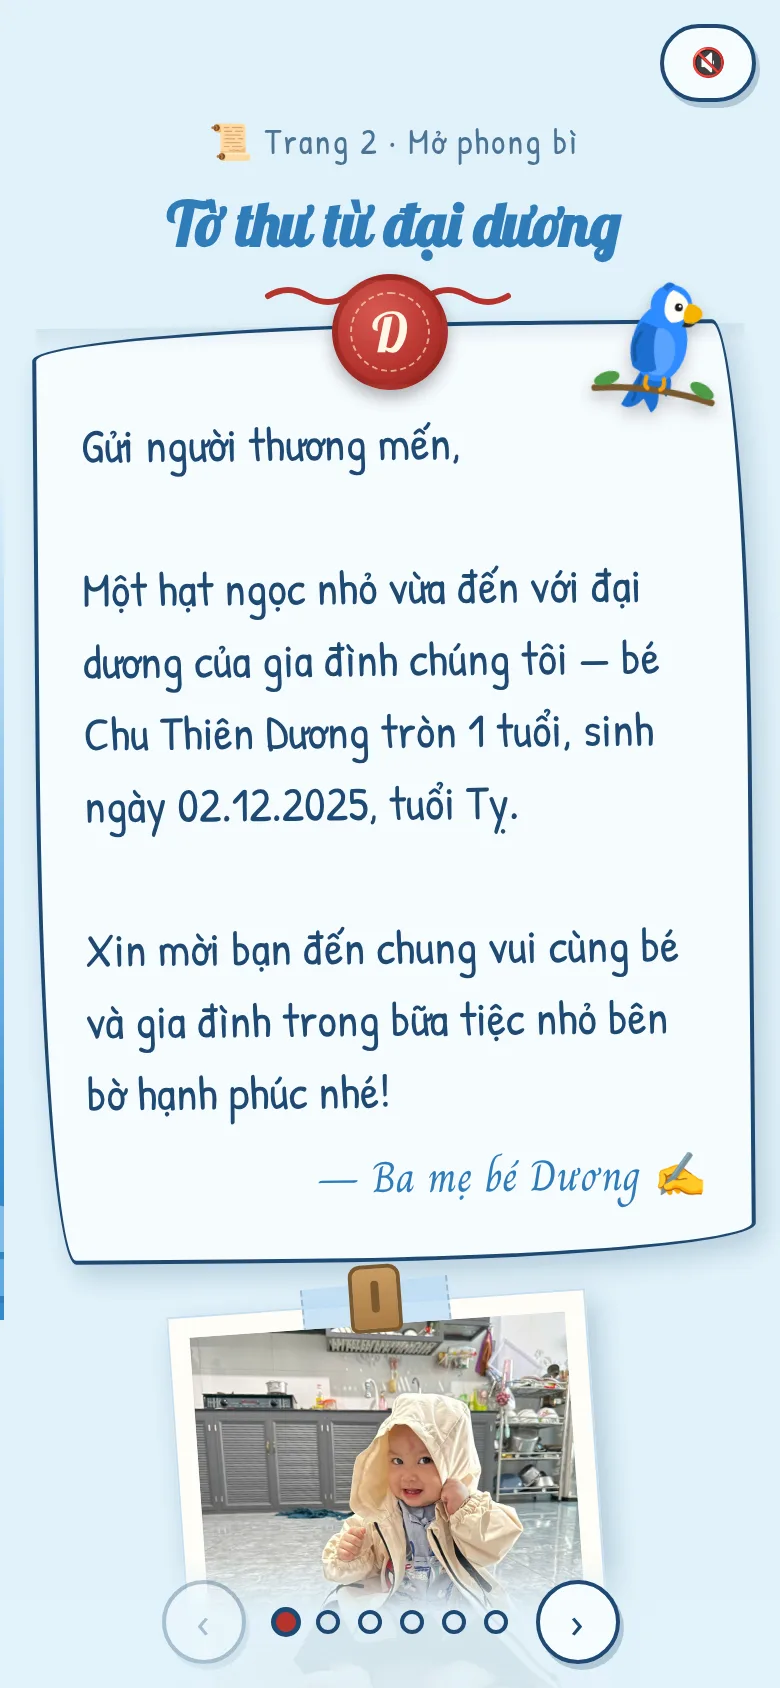
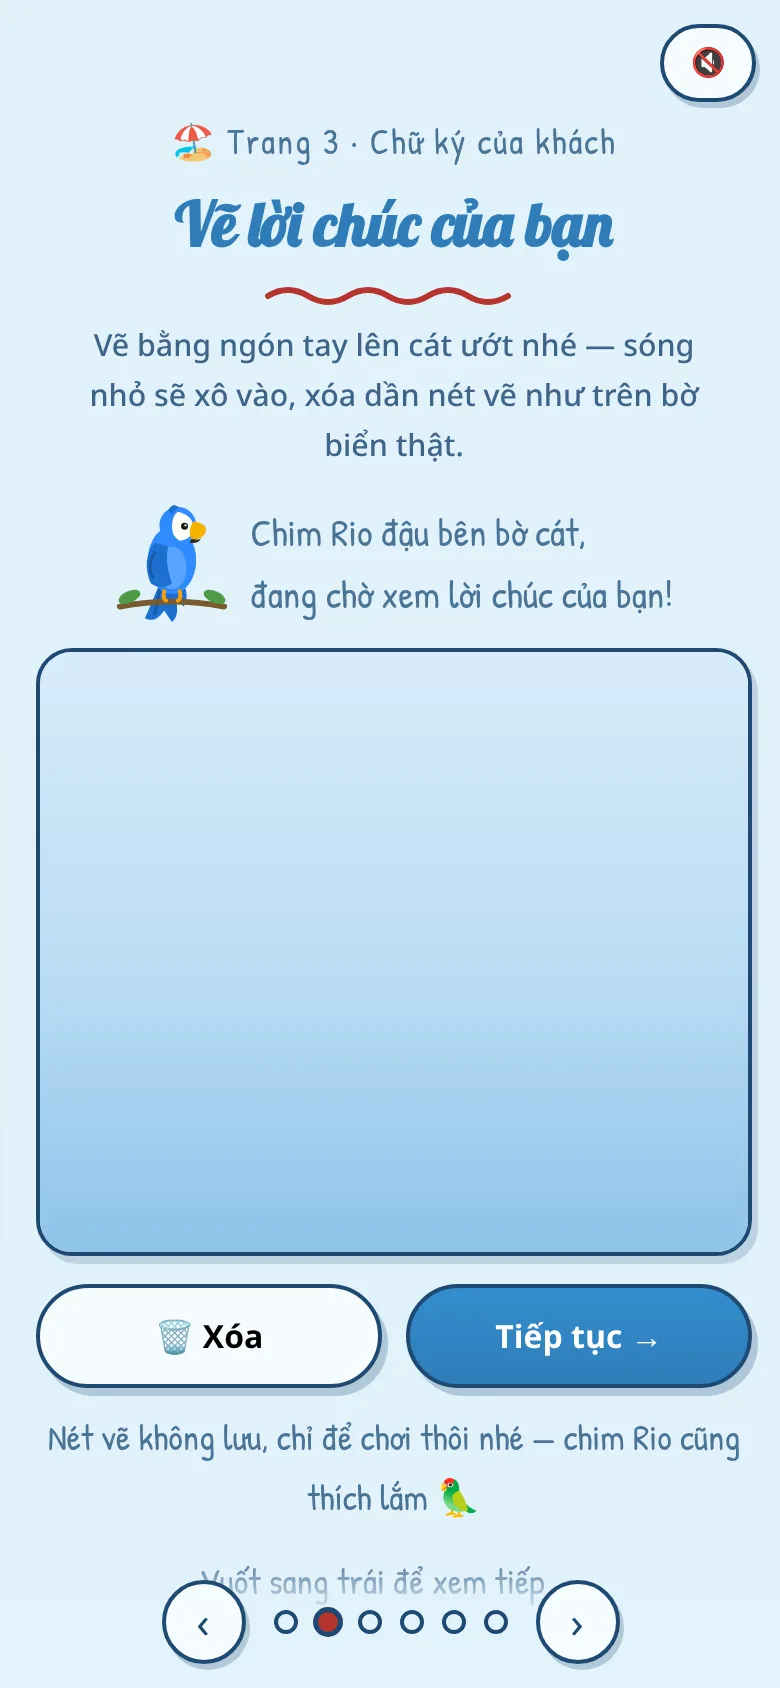
gen 352: bia moi - mot chai thu, troi xanh pastel + may troi, cham de mo thu

diff --git a/assets/js/data.js b/assets/js/data.js
@@ -7537,7 +7537,7 @@ const PRODUCTS = [
         id: 352,
         name: 'Thôi Nôi Bé Dương — Chai Thư & Chim Rio',
         slug: 'thoi-noi-be-duong-chai-thu-chim-rio',
-        description: 'Thiệp mời thôi nôi online dạng thư trong chai do chim Rio đưa thư, vuốt ngang 6 trang: mini game chọn chai có thư, tờ thư viết tay có dấu sáp và ảnh polaroid, vẽ lời chúc lên cát, nhật ký năm đầu đời lật polaroid, bản đồ chim Rio bay tới Trung Tâm Yến Tiệc Và Hội Nghị Amor Resort, phong bì hồi âm tem chim Rio. Minh hoạ chim Rio vẹt xanh bay, đậu cành và mang chai thư. Âm thanh guitar mộc, sóng và tiếng chim Rio mặc định tắt.',
+        description: 'Thiệp mời thôi nôi online dạng thư trong chai do chim Rio đưa thư, vuốt ngang 6 trang: bìa một chai thư trôi giữa biển, chạm để mở thư, tờ thư viết tay có dấu sáp và ảnh polaroid, vẽ lời chúc lên cát, nhật ký năm đầu đời lật polaroid, bản đồ chim Rio bay tới Trung Tâm Yến Tiệc Và Hội Nghị Amor Resort, phong bì hồi âm tem chim Rio. Minh hoạ chim Rio vẹt xanh bay, đậu cành và mang chai thư. Âm thanh guitar mộc, sóng và tiếng chim Rio mặc định tắt.',
         category: 'other',
         type: 'invitation',
         style: '',
@@ -7555,7 +7555,7 @@ const PRODUCTS = [
         demoUrl: './products/Invitation/Other/gen_352_thu-trong-chai-chim-rio/index.html',
         variants: [],
         features: [
-            'Vuốt ngang 6 trang, chấm chỉ số trang, mini game chọn chai có thư',
+            'Bìa một chai thư trôi giữa biển, chạm để mở thư; vuốt ngang 6 trang, chấm chỉ số trang',
             'Chim Rio vẹt xanh: bay quanh biển, đậu cành, đậu trên thư, bay dọc bản đồ, mang chai thư bay đi',
             'Thư viết tay hiện dần, ảnh polaroid kẹp gỗ, vẽ lời chúc lên cát, nhật ký lật polaroid',
             'Bản đồ chim Rio, đếm ngược đồng hồ cát, hồi âm tem chim Rio, âm thanh guitar + sóng + chim Rio mặc định tắt',
